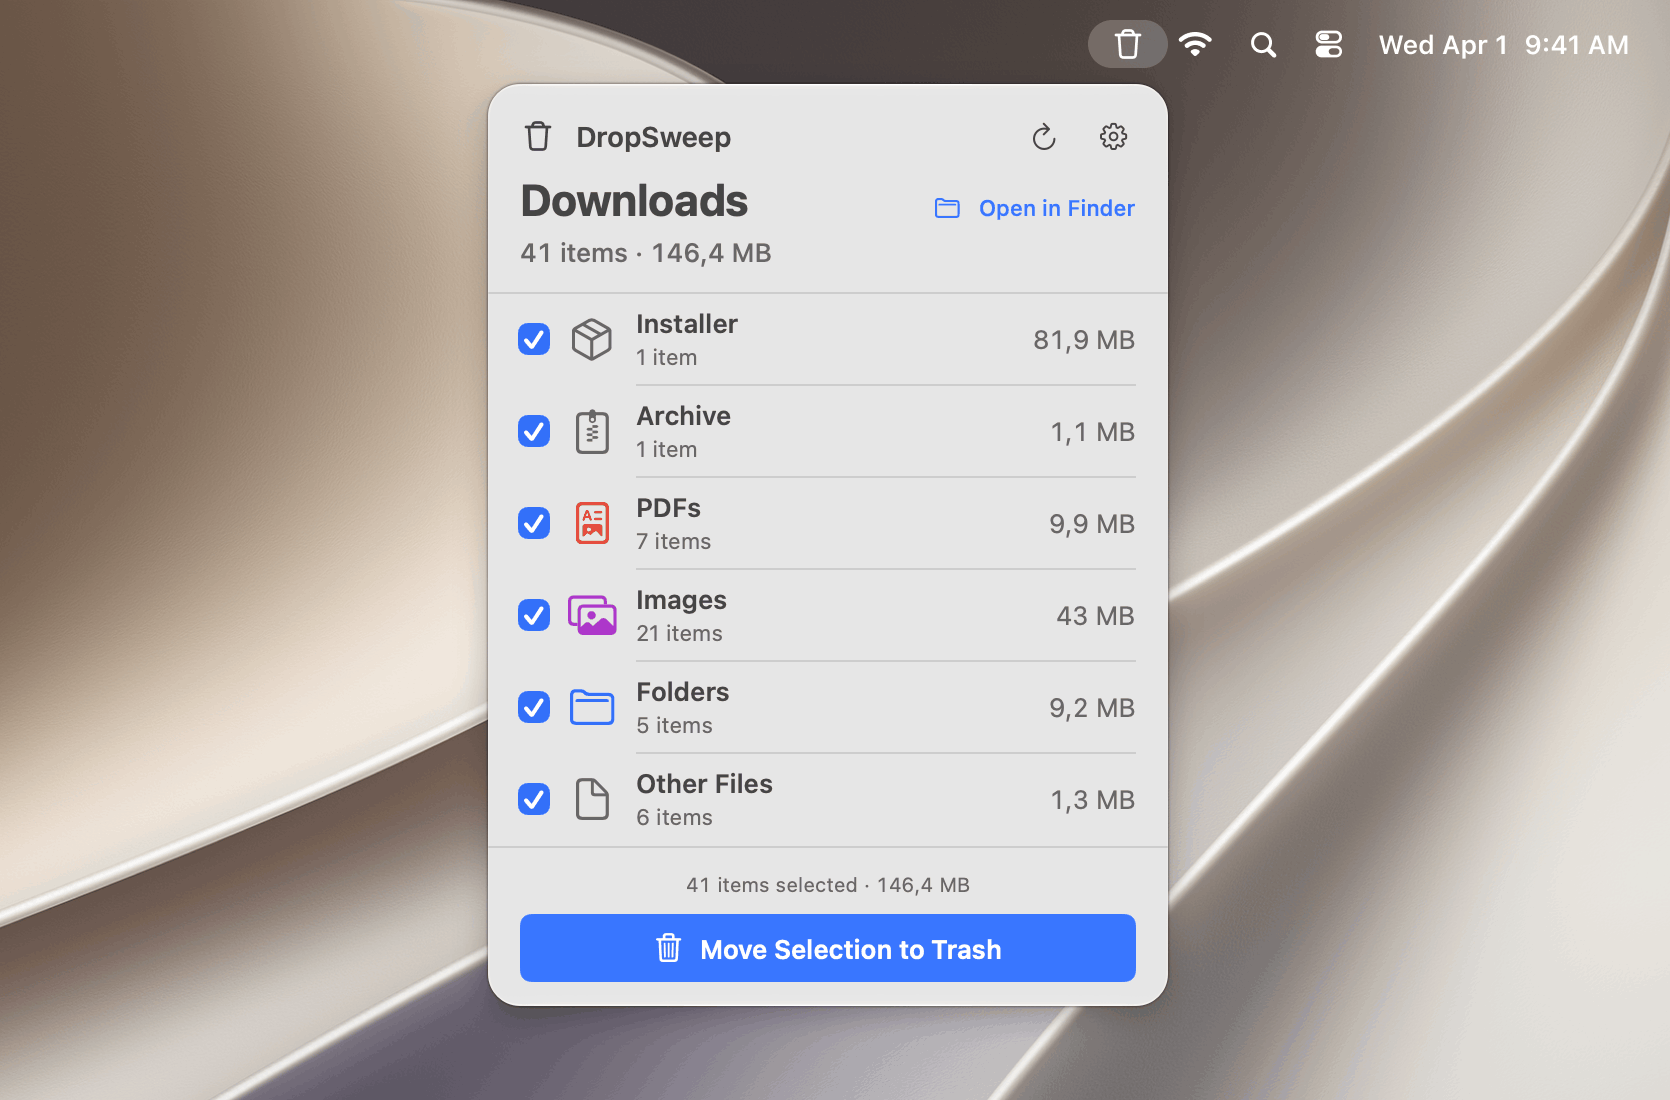
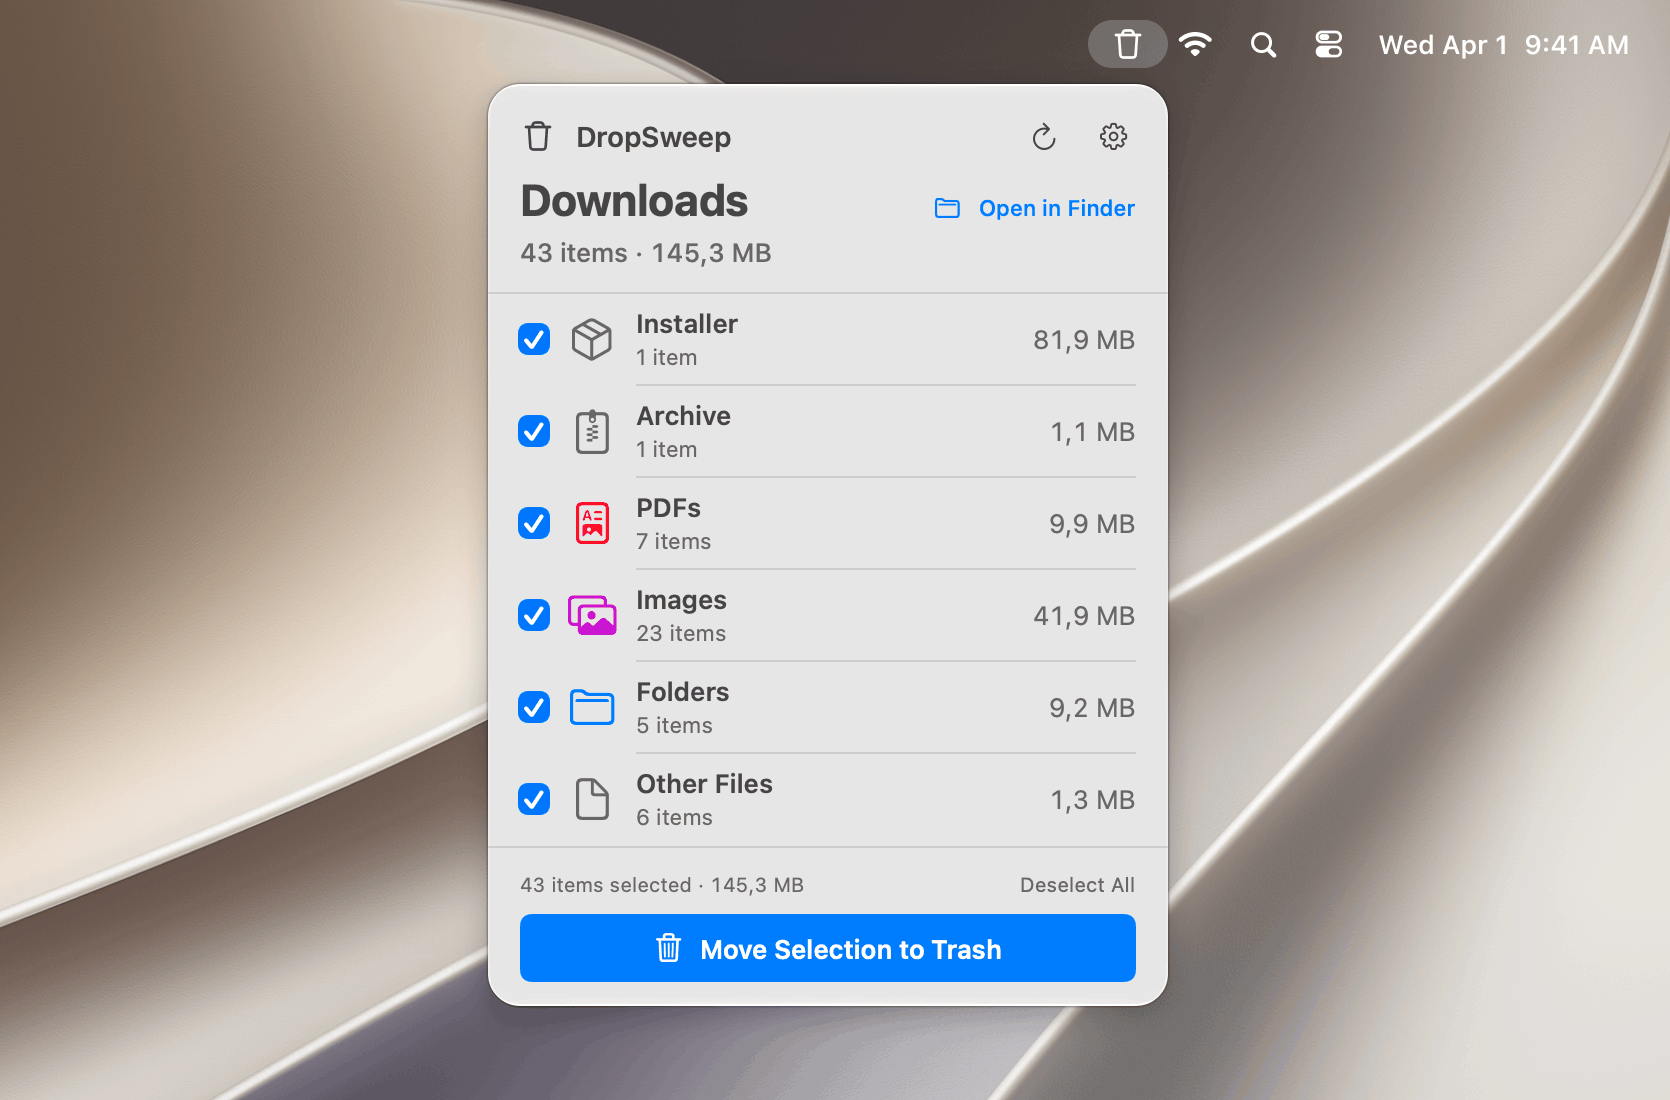
Add deselect all categories selection controls (#104)
Adds Select All and Deselect All controls to the menu footer, including state gating, persistence, tests, and feature documentation. Updates the website image asset.

diff --git a/DropSweepTests/MenuBar/MenuViewModelTests.swift b/DropSweepTests/MenuBar/MenuViewModelTests.swift
@@ -290,6 +290,73 @@ struct MenuViewModelTests {
         #expect(restored.itemsForDeletionConfirmation() == nil)
     }
 
+    @Test func bulkSelectionUpdatesConfirmedItemsAndPersistsBothStates() async throws {
+        let fixture = try DownloadsFixture()
+        try fixture.file("document.pdf", bytes: 10)
+        try fixture.file("archive.zip", bytes: 20)
+        let model = MenuViewModel(
+            sweeper: fixture.makeSweeper(), launchAtLoginEnabled: false, scanOnInit: false,
+            selectionStore: CategorySelectionStore(defaults: preferences.defaults)
+        )
+        await model.scanDownloadsFolder().value
+        #expect(model.canChangeCategorySelection)
+
+        // Only the visible categories need to be selected to offer Deselect All.
+        model.selectedCategories = [.pdf, .archive]
+        #expect(model.areAllCategoriesSelected)
+        model.toggleAllCategories()
+        #expect(model.selectedCategories.isEmpty)
+        #expect(!model.areAllCategoriesSelected)
+        #expect(model.selectedItemsCount == 0)
+        #expect(!model.canDeleteDownloads)
+        #expect(model.itemsForDeletionConfirmation() == nil)
+        #expect(makeModel(ControlledSweeper()).selectedCategories.isEmpty)
+
+        model.toggleAllCategories()
+        #expect(model.areAllCategoriesSelected)
+        #expect(model.selectedCategories == Set(DownloadsCategory.allCases))
+        #expect(model.selectedItemsCount == model.itemsCount)
+        #expect(model.selectionSummary == "2 items selected · \(model.totalDisplaySize)")
+        #expect(Set(try #require(model.itemsForDeletionConfirmation()).map(\.category)) == [.pdf, .archive])
+        #expect(makeModel(ControlledSweeper()).selectedCategories == model.selectedCategories)
+
+        model[isSelected: .archive] = false
+        #expect(!model.areAllCategoriesSelected)
+        model.toggleAllCategories()
+        #expect(model.areAllCategoriesSelected)
+        #expect(model.selectedItemsCount == 2)
+    }
+
+    @Test func bulkSelectionIgnoresUnavailableStates() async {
+        let service = ControlledSweeper()
+        let model = makeModel(service)
+        model.selectedCategories = []
+        #expect(!model.areAllCategoriesSelected)
+        #expect(!model.canChangeCategorySelection)
+        model.toggleAllCategories()
+        #expect(model.selectedCategories.isEmpty)
+
+        service.scanResult = result("document.pdf")
+        await model.scanDownloadsFolder().value
+        model.isScanning = true
+        #expect(!model.canChangeCategorySelection)
+        model.toggleAllCategories()
+        #expect(model.selectedCategories.isEmpty)
+        model.isScanning = false
+
+        model.isDeleting = true
+        #expect(!model.canChangeCategorySelection)
+        model.toggleAllCategories()
+        #expect(model.selectedCategories.isEmpty)
+        model.isDeleting = false
+
+        service.scanResult = DownloadsScanResult(scanErrorMessage: "Scan failed")
+        await model.scanDownloadsFolder().value
+        #expect(!model.canChangeCategorySelection)
+        model.toggleAllCategories()
+        #expect(model.selectedCategories.isEmpty)
+    }
+
     private func makeModel(_ service: ControlledSweeper) -> MenuViewModel {
         MenuViewModel(sweeper: service, launchAtLoginEnabled: false, scanOnInit: false, selectionStore: CategorySelectionStore(defaults: preferences.defaults))
     }

diff --git a/DropSweep/MenuBar/MenuViewModel.swift b/DropSweep/MenuBar/MenuViewModel.swift
@@ -54,6 +54,19 @@ class MenuViewModel {
         !isScanning && !isDeleting && scanErrorMessage == nil && selectedItemsCount > 0
     }
 
+    var canChangeCategorySelection: Bool {
+        !isScanning && !isDeleting && scanErrorMessage == nil && !categories.isEmpty
+    }
+
+    var areAllCategoriesSelected: Bool {
+        !categories.isEmpty && categories.allSatisfy { selectedCategories.contains($0.category) }
+    }
+
+    func toggleAllCategories() {
+        guard canChangeCategorySelection else { return }
+        selectedCategories = areAllCategoriesSelected ? [] : Set(DownloadsCategory.allCases)
+    }
+
     subscript(isSelected category: DownloadsCategory) -> Bool {
         get { selectedCategories.contains(category) }
         set {

diff --git a/DropSweep/MenuBar/MenuView.swift b/DropSweep/MenuBar/MenuView.swift
@@ -146,10 +146,12 @@ struct MenuView: View {
 
     private var footer: some View {
         VStack(spacing: 8) {
-            Text(vm.selectionSummary)
-                .font(.caption)
-                .foregroundStyle(.secondary)
-                .monospacedDigit()
+            CategorySelectionControls(
+                summary: vm.selectionSummary,
+                allSelected: vm.areAllCategoriesSelected,
+                isEnabled: vm.canChangeCategorySelection,
+                toggleSelection: vm.toggleAllCategories
+            )
             Button(action: confirmDeleteDownloads) {
                 Label("Move Selection to Trash", systemImage: "trash")
                     .font(.system(size: 13, weight: .semibold))

diff --git a/DropSweep/MenuBar/Components/CategorySelectionControls.swift b/DropSweep/MenuBar/Components/CategorySelectionControls.swift
@@ -1,0 +1,23 @@
+import SwiftUI
+
+struct CategorySelectionControls: View {
+    let summary: String
+    let allSelected: Bool
+    let isEnabled: Bool
+    let toggleSelection: () -> Void
+
+    var body: some View {
+        HStack {
+            Text(summary)
+                .foregroundStyle(.secondary)
+                .monospacedDigit()
+            Spacer(minLength: 8)
+            Button(action: toggleSelection) {
+                Text(allSelected ? "Deselect All" : "Select All")
+            }
+            .buttonStyle(.borderless)
+            .disabled(!isEnabled)
+        }
+        .font(.caption)
+    }
+}

diff --git a/docs/features/category-selection.md b/docs/features/category-selection.md
@@ -20,6 +20,8 @@ As a user, I want to select categories with checkboxes so that I can remove clut
 - Each nonempty category has a checkbox that selects all listed top-level items in that category.
 - All categories are selected on first launch. Changes are saved automatically and restored on subsequent app launches, including an empty selection. Choices remain in effect during refreshes, reopening the menu, scan failures, and categories disappearing and returning. Newly introduced categories remain unselected when restoring an existing selection.
 - The footer shows the selected item count and combined size. The Downloads overview continues to show the totals for all listed items.
+- A footer button shows **Deselect All** when every visible category is selected, otherwise **Select All**. It clears the entire saved selection or selects every category, including categories currently absent from Downloads. Bulk changes are saved like individual checkbox changes.
+- Bulk selection is disabled during scans and cleanup, after scan errors, and when Downloads is empty.
 - The cleanup action is disabled when no listed items are selected, during scans, and during cleanup.
 - Confirmation shows the selected item count and captures only selected items, including their scanned identities. Later scans or selection changes do not alter the confirmed snapshot.
 - Unselected categories remain in Downloads. Selected folders move with all their contents, regardless of the categories of nested files.
@@ -29,6 +31,8 @@ As a user, I want to select categories with checkboxes so that I can remove clut
 
 - Put files from several categories and a visible folder in Downloads. On a fresh preferences domain, verify all categories initially have checked boxes.
 - Uncheck a category and verify the selected count and size decrease while the overview totals remain unchanged.
+- Click **Select All** from a partial or empty selection and verify every checkbox is checked and the selected totals match the overview. Click **Deselect All** and verify every checkbox is cleared and cleanup is disabled. Repeat when only one category is visible; quit and relaunch after each bulk action to verify persistence.
+- Verify the bulk selection button is disabled while scanning or moving items, with empty Downloads, and after a scan error. Check keyboard navigation and VoiceOver for both button labels.
 - Uncheck every visible category and verify cleanup is disabled. Check one category and verify it becomes available.
 - Refresh and close/reopen the menu. Verify unchecked categories remain unchecked. Check keyboard navigation and that VoiceOver announces each checkbox label and state.
 - Select only PDFs and screenshots, open confirmation, and verify its count. Cancel and verify nothing moves.
